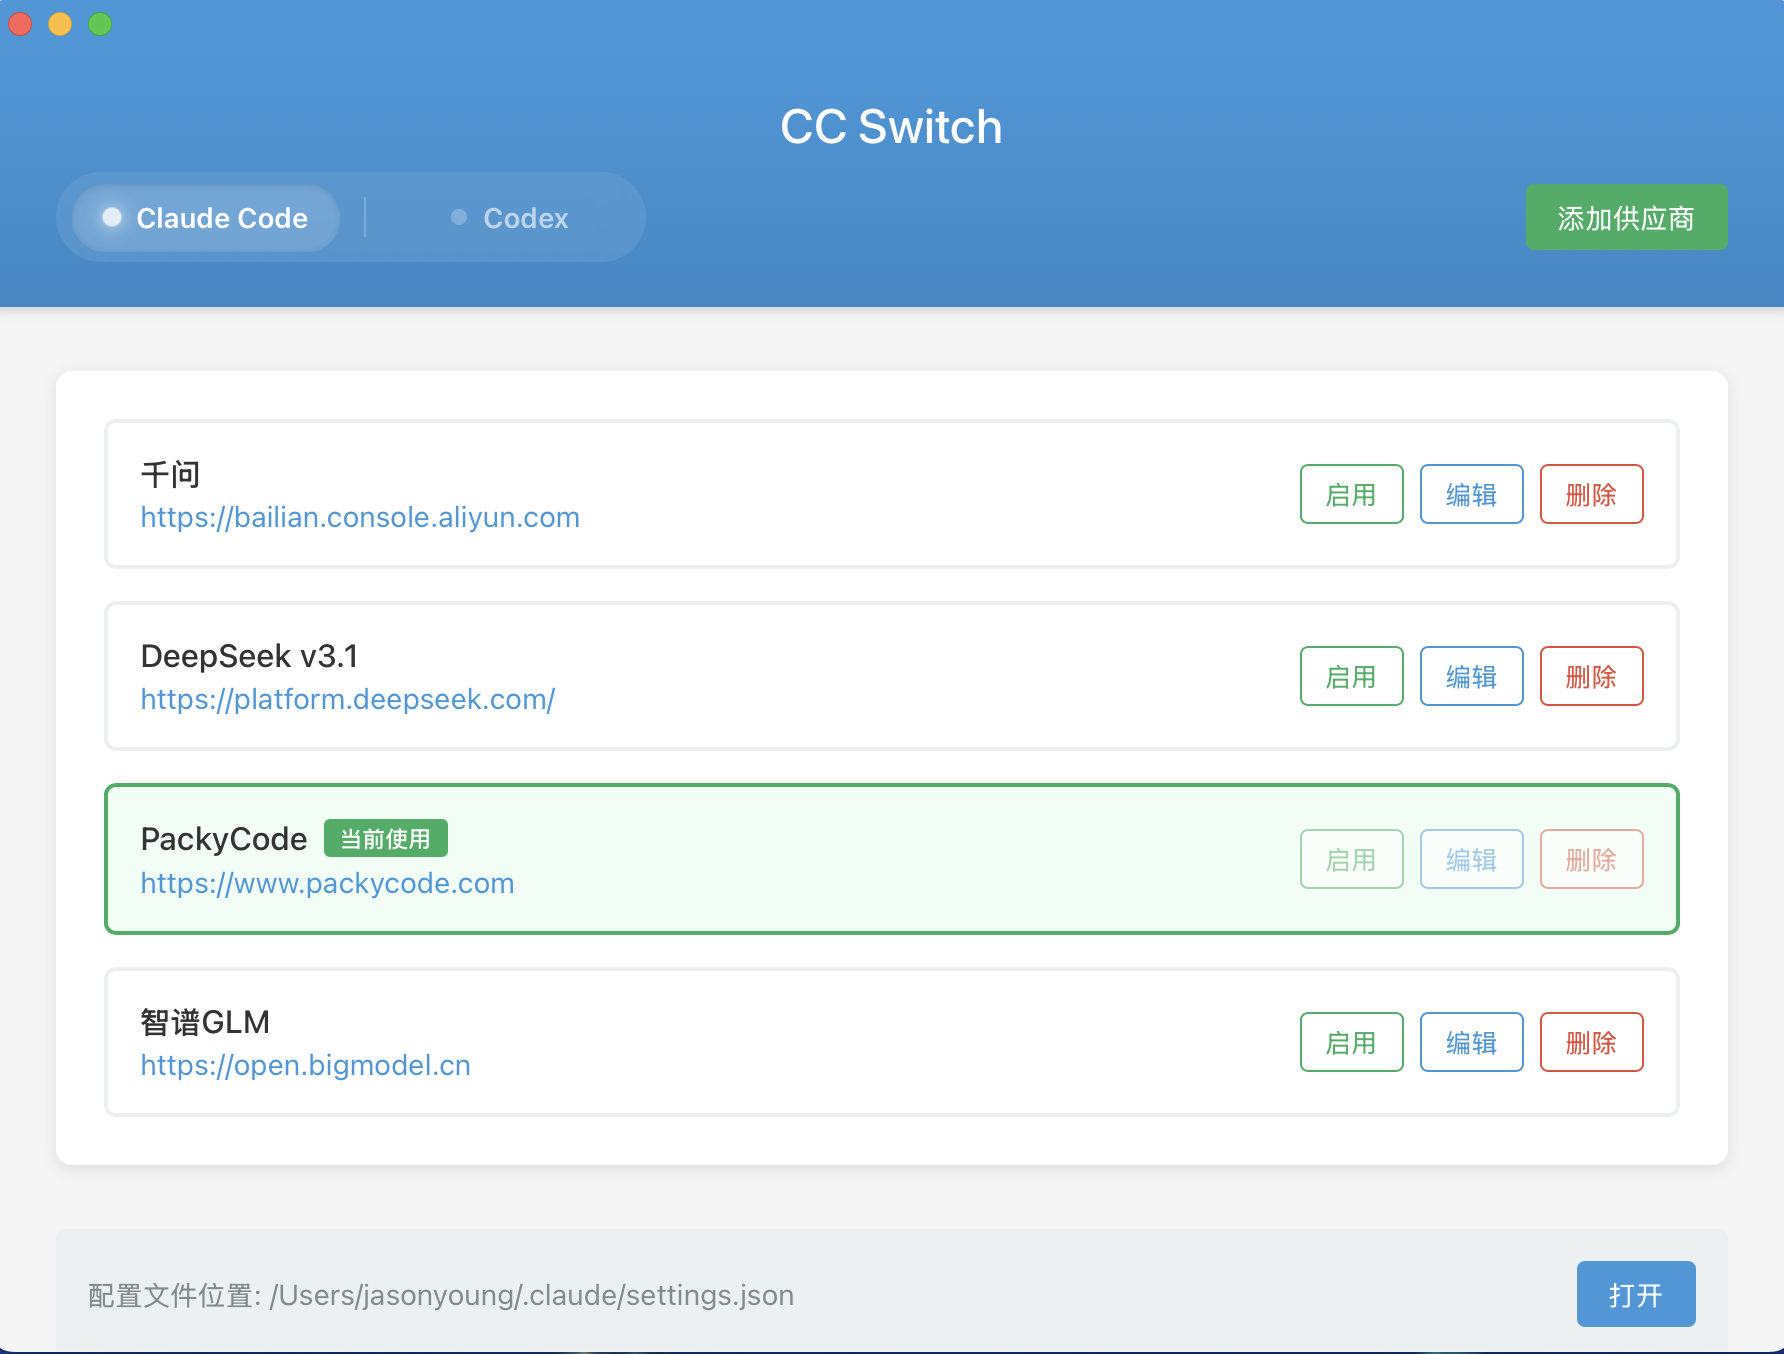
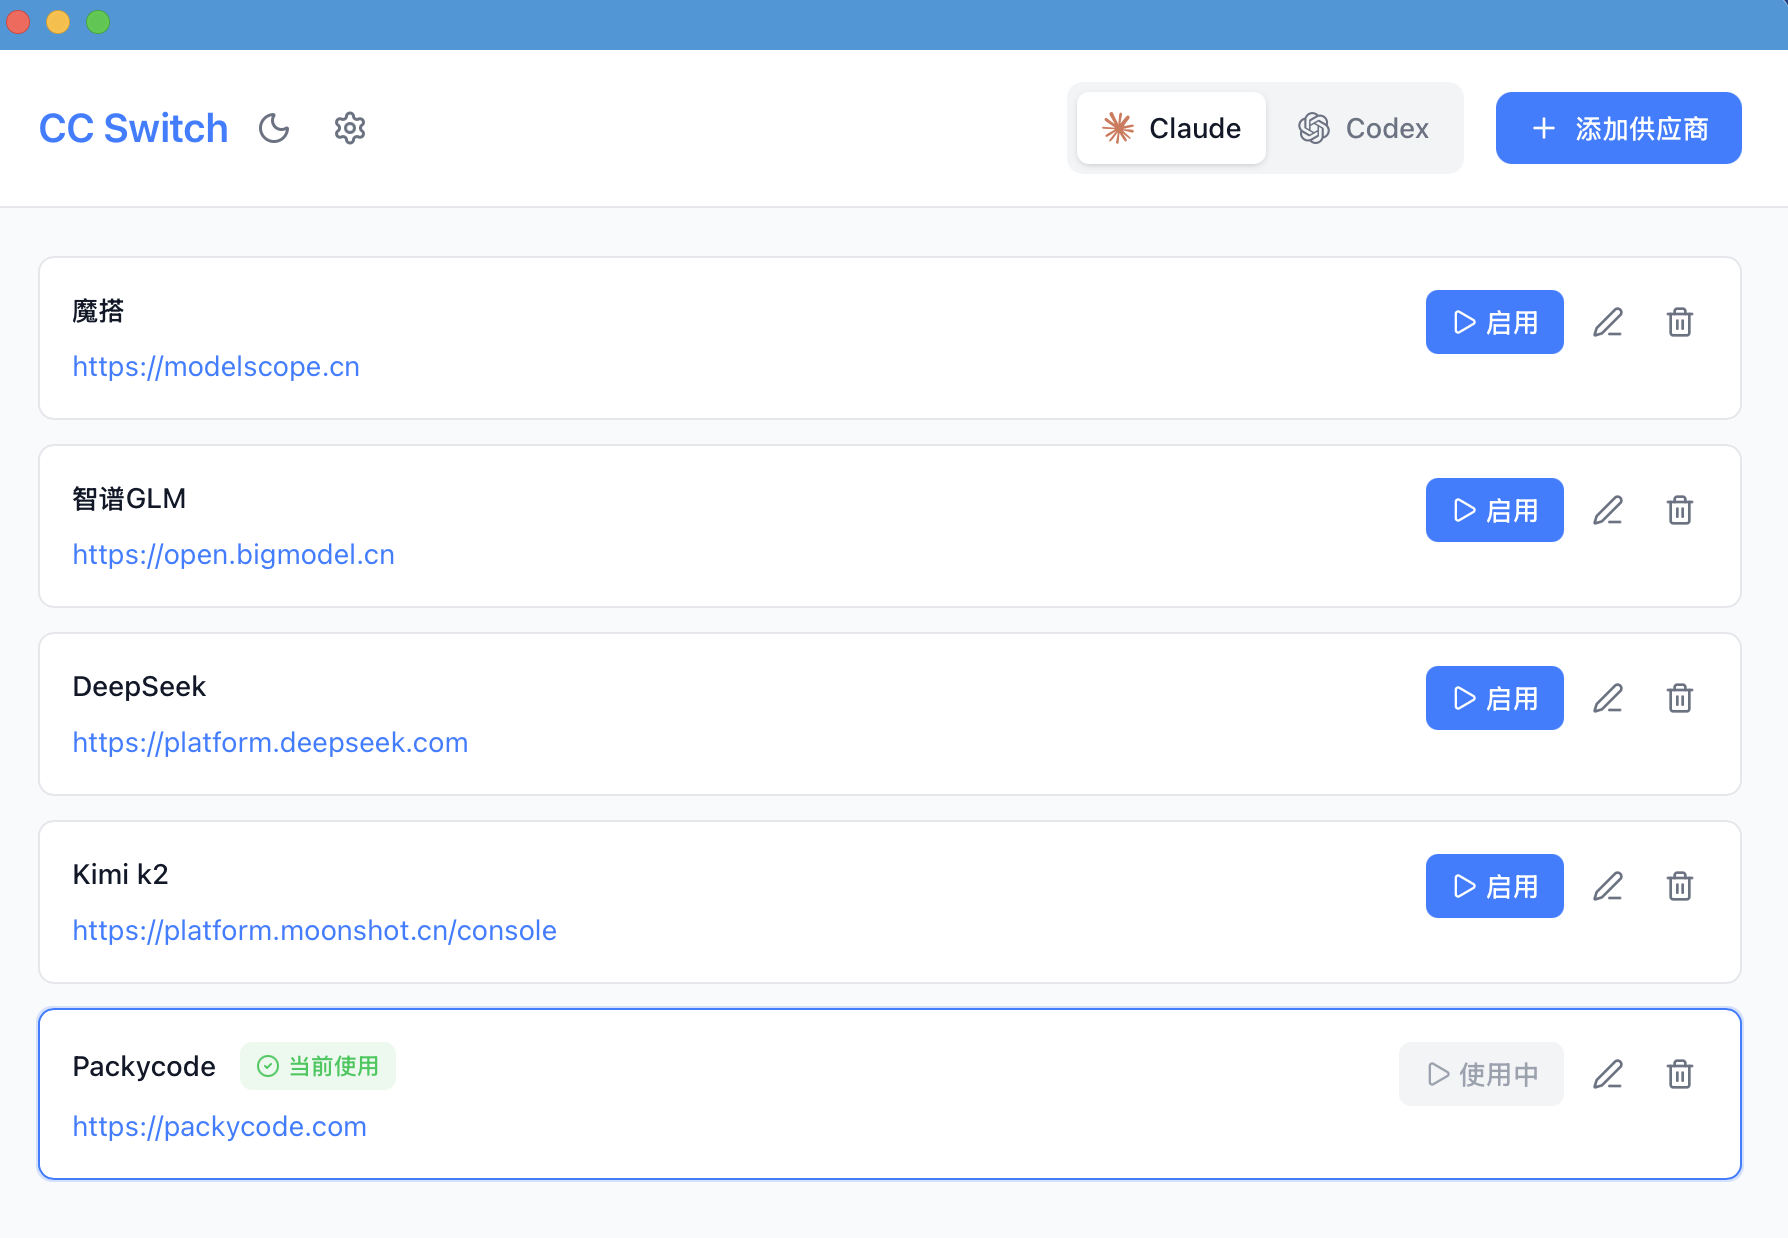
docs: update README and screenshots for v3.2.0 release
- Update README with v3.2.0 features and UI improvements
- Replace screenshots with new UI design
- Clarify SSOT architecture and one-time migration details
- Update version badge to 3.2.0

diff --git a/README.md b/README.md
@@ -1,26 +1,28 @@
 # Claude Code & Codex 供应商切换器
 
-[![Version](https://img.shields.io/badge/version-3.0.0-blue.svg)](https://github.com/farion1231/cc-switch/releases)
+[![Version](https://img.shields.io/badge/version-3.2.0-blue.svg)](https://github.com/farion1231/cc-switch/releases)
 [![Platform](https://img.shields.io/badge/platform-Windows%20%7C%20macOS%20%7C%20Linux-lightgrey.svg)](https://github.com/farion1231/cc-switch/releases)
-[![Built with Tauri](https://img.shields.io/badge/built%20with-Tauri%202.0-orange.svg)](https://tauri.app/)
+[![Built with Tauri](https://img.shields.io/badge/built%20with-Tauri%202-orange.svg)](https://tauri.app/)
 
 一个用于管理和切换 Claude Code 与 Codex 不同供应商配置的桌面应用。
 
-> v3.1.0 ：新增 Codex 供应商管理与一键切换，支持导入当前 Codex 配置为默认供应商，并在内部配置从 v1 → v2 迁移前自动备份（详见下文““迁移与备份”）。
+> v3.2.0 重点：全新 UI、macOS系统托盘、内置更新器、原子写入与回滚、改进暗色样式、单一事实源（SSOT）与一次性迁移/归档（详见下文“迁移与归档 v3.2.0”）。
 
-> v3.0.0 重大更新：从 Electron 完全迁移到 Tauri 2.0，应用体积减少 85%（从 ~80MB 降至 ~12MB），启动速度提升 10 倍！
+> v3.1.0 ：新增 Codex 供应商管理与一键切换，支持导入当前 Codex 配置为默认供应商，并在内部配置从 v1 → v2 迁移前自动备份（详见下文“迁移与归档”）。
 
-## 功能特性
+> v3.0.0 重大更新：从 Electron 完全迁移到 Tauri 2.0，应用体积显著降低、启动性能大幅提升。
 
-- **极速启动** - 基于 Tauri 2.0，原生性能，秒开应用
-- 一键切换不同供应商
-- 同时支持 Claude Code 与 Codex 的供应商切换与导入
-- Qwen coder、kimi k2、智谱 GLM、DeepSeek v3.1、packycode 等预设供应商只需要填写 key 即可一键配置
-- 支持添加自定义供应商
-- 随时切换官方登录
-- 简洁美观的图形界面
-- 信息存储在本地 ~/.cc-switch/config.json，无隐私风险
-- 超小体积 - 仅 ~5MB 安装包
+## 功能特性（v3.2.0）
+
+- **全新 UI**：感谢 [TinsFox](https://github.com/TinsFox) 大佬设计的全新 UI
+- **系统托盘（菜单栏）快速切换**：按应用分组（Claude / Codex），勾选态展示当前供应商
+- **内置更新器**：集成 Tauri Updater，支持检测/下载/安装与一键重启
+- **单一事实源（SSOT）**：不再写每个供应商的“副本文件”，统一存于 `~/.cc-switch/config.json`
+- **一次性迁移/归档**：首次升级自动导入旧副本并归档原文件，之后不再持续归档
+- **原子写入与回滚**：写入 `auth.json`/`config.toml`/`settings.json` 时避免半写状态
+- **深色模式优化**：Tailwind v4 适配与选择器修正
+- **丰富预设与自定义**：Qwen coder、Kimi、GLM、DeepSeek、PackyCode 等；可自定义 Base URL
+- **本地优先与隐私**：全部信息存储在本地 `~/.cc-switch/config.json`
 
 ## 界面预览
 
@@ -57,35 +59,52 @@
 ## 使用说明
 
 1. 点击"添加供应商"添加你的 API 配置
-2. 选择要使用的供应商，点击单选按钮切换
-3. 配置会自动保存到对应应用的配置文件中
-4. 重启或者新打开终端以生效
-5. 如果需要切回 Claude 官方登录，可以添加预设供应商里的“Claude 官方登录”并切换，重启终端后即可进行正常的 /login 登录
+2. 切换方式：
+   - 在主界面选择供应商后点击切换
+   - 或通过“系统托盘（菜单栏）”直接选择目标供应商，立即生效
+3. 切换会写入对应应用的“live 配置文件”（Claude：`settings.json`；Codex：`auth.json` + `config.toml`）
+4. 重启或新开终端以确保生效
+5. 若需切回官方登录，在预设中选择“官方登录”并切换即可；重启终端后按官方流程登录
 
-### Codex 说明
+### 检查更新
+
+- 在“设置”中点击“检查更新”，若内置 Updater 配置可用将直接检测与下载；否则会回退打开 Releases 页面
+
+### Codex 说明（v3.2.0 SSOT）
 
 - 配置目录：`~/.codex/`
-  - 主配置文件：`auth.json`（必需）、`config.toml`（可为空）
-  - 供应商副本：`auth-<name>.json`、`config-<name>.toml`
+  - live 主配置：`auth.json`（必需）、`config.toml`（可为空）
 - API Key 字段：`auth.json` 中使用 `OPENAI_API_KEY`
-- 切换策略：将选中供应商的副本覆盖到主配置（`auth.json`、`config.toml`）。若供应商没有 `config-*.toml`，会创建空的 `config.toml`。
-- 导入默认：仅当该应用无任何供应商时，从现有主配置创建一条默认项并设为当前；`config.toml` 不存在时按空处理。
-- 官方登录：可切换到预设“Codex 官方登录”，重启终端后可选择使用 ChatGPT 账号完成登录。
+- 切换行为（不再写“副本文件”）：
+  - 供应商配置统一保存在 `~/.cc-switch/config.json`
+  - 切换时将目标供应商写回 live 文件（`auth.json` + `config.toml`）
+  - 采用“原子写入 + 失败回滚”，避免半写状态；`config.toml` 可为空
+- 导入默认：当该应用无任何供应商时，从现有 live 主配置创建一条默认项并设为当前
+- 官方登录：可切换到预设“Codex 官方登录”，重启终端后按官方流程登录
 
-### Claude Code 说明
+### Claude Code 说明（v3.2.0 SSOT）
 
 - 配置目录：`~/.claude/`
-  - 主配置文件：`settings.json`（推荐）或 `claude.json`（旧版兼容，若存在则继续使用）
-  - 供应商副本：`settings-<name>.json`
+  - live 主配置：`settings.json`（优先）或历史兼容 `claude.json`
 - API Key 字段：`env.ANTHROPIC_AUTH_TOKEN`
-- 切换策略：将选中供应商的副本覆盖到主配置（`settings.json`/`claude.json`）。如当前有配置且存在“当前供应商”，会先将主配置备份回该供应商的副本文件。
-- 导入默认：仅当该应用无任何供应商时，从现有主配置创建一条默认项并设为当前。
-- 官方登录：可切换到预设“Claude 官方登录”，重启终端后可使用 `/login` 完成登录。
+- 切换行为（不再写“副本文件”）：
+  - 供应商配置统一保存在 `~/.cc-switch/config.json`
+  - 切换时将目标供应商 JSON 直接写入 live 文件（优先 `settings.json`）
+  - 编辑当前供应商时，先写 live 成功，再更新应用主配置，保证一致性
+- 导入默认：当该应用无任何供应商时，从现有 live 主配置创建一条默认项并设为当前
+- 官方登录：可切换到预设“Claude 官方登录”，重启终端后可使用 `/login` 完成登录
 
-### 迁移与备份
+### 迁移与归档（v3.2.0）
 
-- cc-switch 自身配置从 v1 → v2 迁移时，将在 `~/.cc-switch/` 目录自动创建时间戳备份：`config.v1.backup.<timestamp>.json`。
-- 实际生效的应用配置文件（如 `~/.claude/settings.json`、`~/.codex/auth.json`/`config.toml`）不会被修改，切换仅在用户点击“切换”时按副本覆盖到主配置。
+- 一次性迁移：首次启动 3.2.0 会扫描旧的“副本文件”并合并到 `~/.cc-switch/config.json`
+  - Claude：`~/.claude/settings-*.json`（排除 `settings.json` / 历史 `claude.json`）
+  - Codex：`~/.codex/auth-*.json` 与 `config-*.toml`（按名称成对合并）
+- 去重与当前项：按“名称（忽略大小写）+ API Key”去重；若当前为空，将 live 合并项设为当前
+- 归档与清理：
+  - 归档目录：`~/.cc-switch/archive/<timestamp>/<category>/...`
+  - 归档成功后删除原副本；失败则保留原文件（保守策略）
+- v1 → v2 结构升级：会额外生成 `~/.cc-switch/config.v1.backup.<timestamp>.json` 以便回滚
+- 注意：迁移后不再持续归档日常切换/编辑操作，如需长期审计请自备备份方案
 
 ## 开发
 
@@ -138,7 +157,7 @@ cargo test
 
 ## 技术栈
 
-- **[Tauri 2.0](https://tauri.app/)** - 跨平台桌面应用框架
+- **[Tauri 2](https://tauri.app/)** - 跨平台桌面应用框架（集成 updater/process/opener/log/tray-icon）
 - **[React 18](https://react.dev/)** - 用户界面库
 - **[TypeScript](https://www.typescriptlang.org/)** - 类型安全的 JavaScript
 - **[Vite](https://vitejs.dev/)** - 极速的前端构建工具
